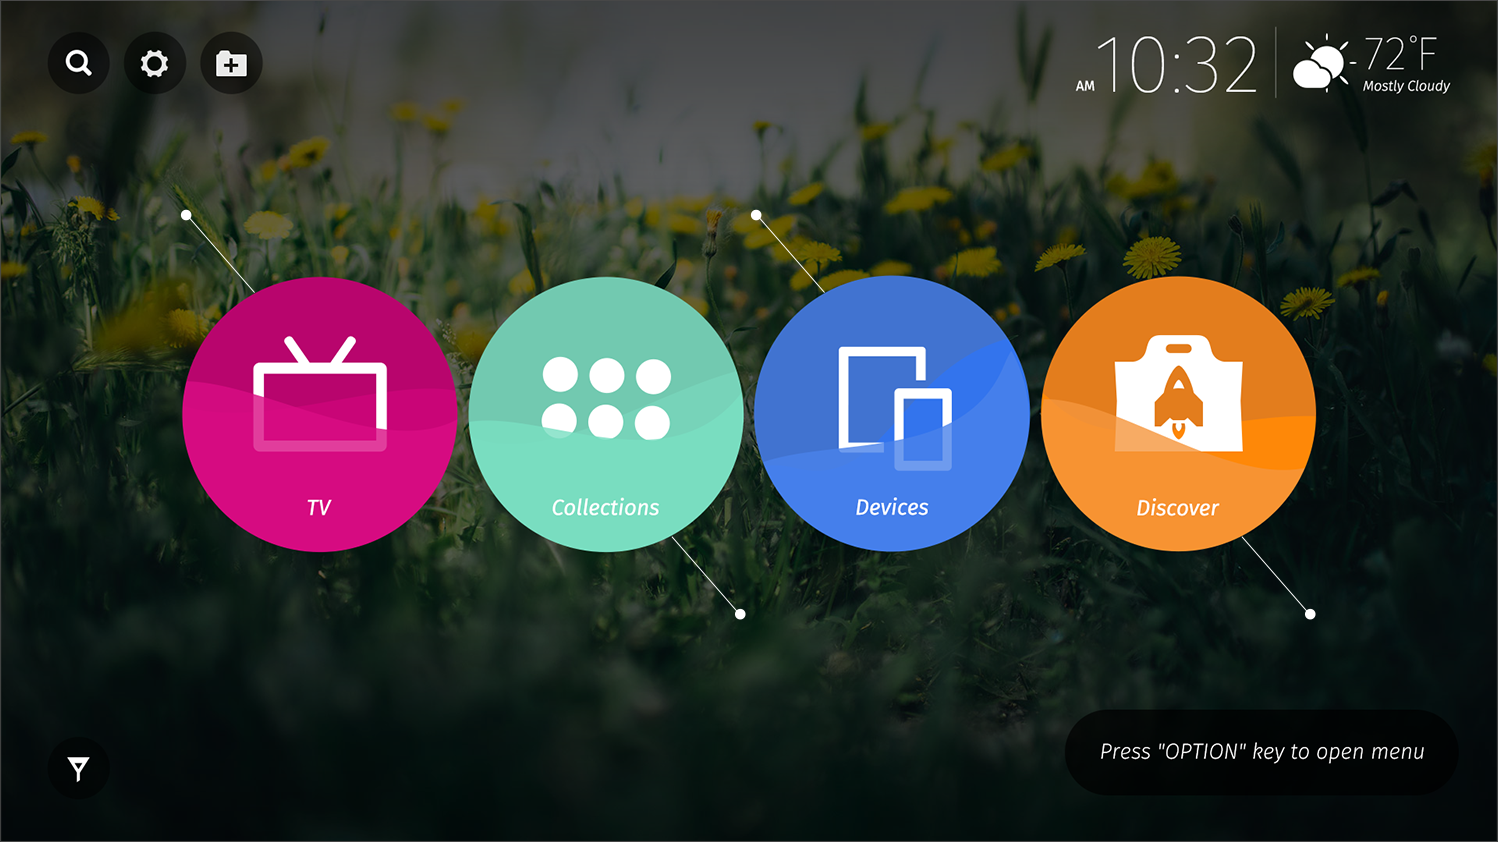
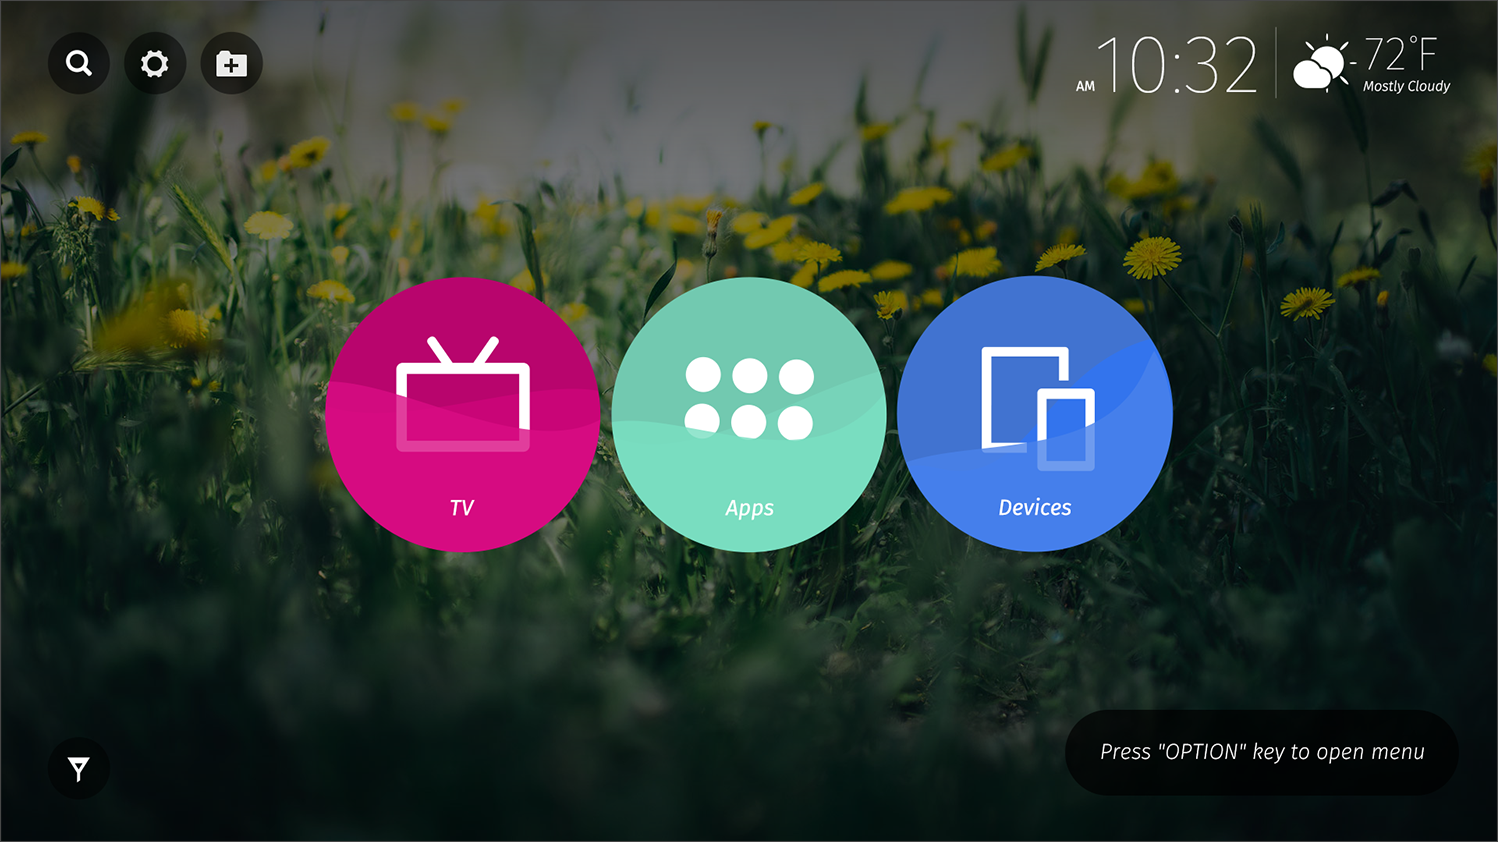
Bug 1225847 - [TV][home] First-time use - page 2. r=yliao, a=jocheng

diff --git a/tv_apps/smart-home/style/fte.css b/tv_apps/smart-home/style/fte.css
@@ -23,6 +23,14 @@
   font-size: 3.6rem;
   color: white;
   font-style: italic;
+  opacity: 1;
+  transition: opacity 0.5s linear;
+}
+
+.fte-page.hidden {
+  opacity: 0;
+  pointer-events: none;
+  transition-delay: 0.5s;
 }
 
 .fte-content-image {
@@ -32,6 +40,26 @@
   width: 149.8rem;
   height: 84.2rem;
   background: url(images/fte_content_image.png) 100%;
+  overflow: visible;
+  box-shadow: 1rem 1rem 1rem #888888;
+}
+
+.fte-indicator-p1 {
+  position: absolute;
+  left: -21.1rem;
+  top: -11.9rem;
+  width: 192rem;
+  height: 108rem;
+  background: url(images/fte_indicator_p1.png) 100%;
+}
+
+.fte-indicator-p2 {
+  position: absolute;
+  left: -21.1rem;
+  top: -11.9rem;
+  width: 192rem;
+  height: 108rem;
+  background: url(images/fte_indicator_p2.png) 100%;
 }
 
 .fte-panel {
@@ -41,7 +69,7 @@
   width: 100%;
 }
 
-.fte-panel > .fte-button[data-behavior="finish"] {
+.fte-panel > .fte-button {
   width: 30.4rem;
   position: relative;
 }
@@ -56,21 +84,41 @@
 }
 
 #fte-tvdeck-detail {
-  left: 13.6rem;
+  left: 27.7rem;
   top: 15.9rem;
 }
 
 #fte-appdeck-detail {
-  left: 45.6rem;
+  right: 51.9rem;
   bottom: 16.5rem;
 }
 
 #fte-devicedeck-detail {
-  left: 70.2rem;
+  left: 84.9rem;
   top: 15.9rem;
 }
 
 #fte-browser-detail {
   left: 105.9rem;
+  bottom: 16.5rem;
+}
+
+#fte-search-detail {
+  left: -10.6rem;
+  top: -7.2rem;
+}
+
+#fte-settings-detail {
+  left: 8.7rem;
+  top: -7.2rem;
+}
+
+#fte-addfolder-detail {
+  left: 30.2rem;
+  top: -7.2rem;
+}
+
+#fte-filter-detail {
+  left: -10.6rem;
   bottom: 16.5rem;
 }

diff --git a/tv_apps/smart-home/index.html b/tv_apps/smart-home/index.html
@@ -173,7 +173,19 @@
             <div id="fte-tvdeck-detail" data-l10n-id="fte-tvdeck-detail"></div>
             <div id="fte-appdeck-detail" data-l10n-id="fte-appdeck-detail"></div>
             <div id="fte-devicedeck-detail" data-l10n-id="fte-devicedeck-detail"></div>
-            <div id="fte-browser-detail" data-l10n-id="fte-browser-detail"></div>
+            <div class="fte-indicator-p1"></div>
+          </div>
+          <section class="fte-panel">
+            <smart-button data-behavior="next" type="rounded-corner-text" class="fte-button primary" data-l10n-id="ok"></smart-button>
+          </section>
+        </section>
+        <section class="fte-page">
+          <div class="fte-content-image">
+            <div id="fte-search-detail" data-l10n-id="fte-search-detail"></div>
+            <div id="fte-settings-detail" data-l10n-id="fte-settings-detail"></div>
+            <div id="fte-addfolder-detail" data-l10n-id="fte-addfolder-detail"></div>
+            <div id="fte-filter-detail" data-l10n-id="fte-filter-detail"></div>
+            <div class="fte-indicator-p2"></div>
           </div>
           <section class="fte-panel">
             <smart-button data-behavior="finish" type="rounded-corner-text" class="fte-button primary" data-l10n-id="ok"></smart-button>

diff --git a/shared/js/smart-screen/f_t_e_wizard.js b/shared/js/smart-screen/f_t_e_wizard.js
@@ -42,6 +42,14 @@
     this._buttonsClass = options.buttonsClass || 'fte-button';
     this._finishButtonClass = options.finishButtonClass || 'fte-finish';
     this._pageClass = options.pageClass || 'fte-page';
+
+    // For options.pageHiddenClass, the suggested styles needed are:
+    //   opacity: 0;
+    //   pointer-events: none;
+    //   transition: opacity <any duration> linear <any duration>;
+    //   (The delay duration should be the same as transition duration.)
+    // And the page transition should be:
+    //   transition: opacity <any duration> linear;
     this._pageHiddenClass = options.pageHiddenClass || 'hidden';
     this._launchEveryTime = options.launchEveryTime || false;
     this.propagateKeyEvent = options.propagateKeyEvent || false;
